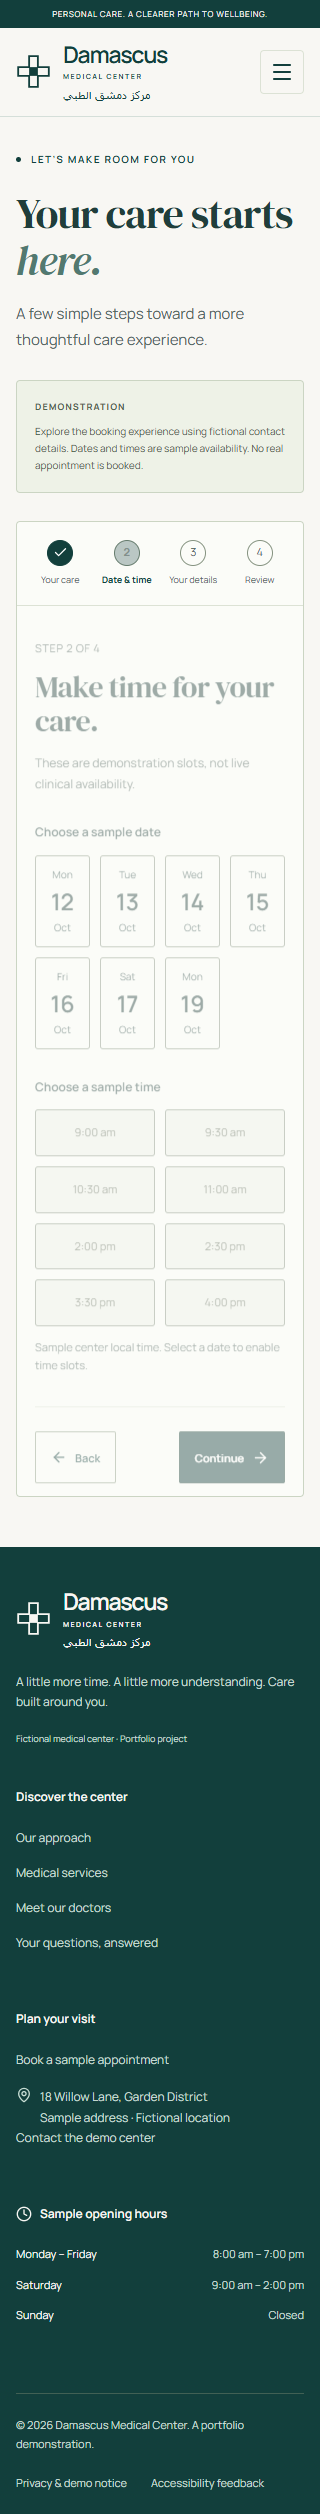
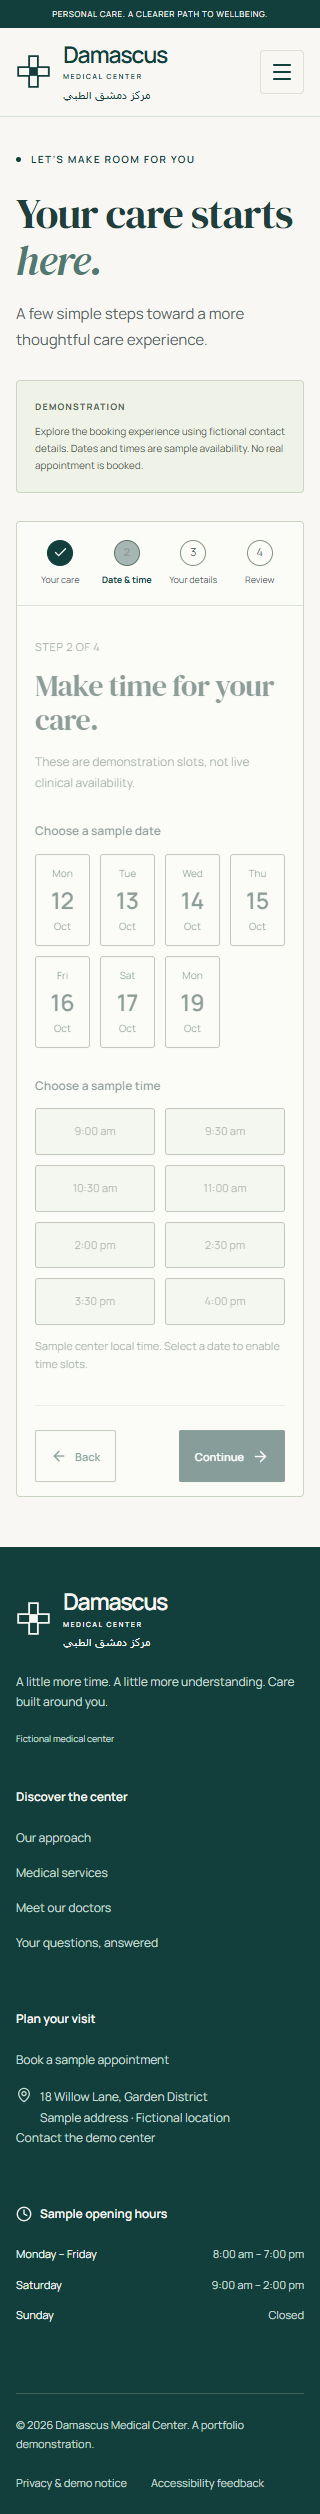
Second commit

diff --git a/src/components/layout.tsx b/src/components/layout.tsx
@@ -111,7 +111,7 @@ export function Layout() {
               <p className="mt-6 max-w-xs text-sage-light leading-relaxed">
                 A little more time. A little more understanding. Care built around you.
               </p>
-              <span className="footer-demo">Fictional medical center · Portfolio project</span>
+              <span className="footer-demo">Fictional medical center </span>
             </div>
             <div>
               <h2>Discover the center</h2>

diff --git a/README.md b/README.md
@@ -1,82 +1,213 @@
-# Damascus Medical Center · مركز دمشق الطبي
+# Damascus Medical Center
 
-A complete fictional healthcare frontend, built with React, TypeScript and Tailwind. A bilingual identity, editorial homepage and coordinated motion support a practical journey from finding a specialty to reviewing a sample appointment.
+A medical center website with searchable care directories and a validated appointment demonstration.
 
-![Damascus Medical Center desktop homepage](docs/screenshots/home-desktop-viewport.png)
+Built with **React, TypeScript and Tailwind CSS**, this project lets visitors explore six specialties, find a clinician and work through a four-step appointment journey. It brings together typed domain data, client-side routing, controlled forms and a shared visual and motion system.
 
-## Run locally
+**[Live website](https://damascus-medical-center.netlify.app/)** · [Source code](https://github.com/SaadSinan-dev/Medical-Center-Website) · [Run locally](#local-development) · [Verification](#testing-and-verification)
 
-Requires Node.js 22.12+ and npm; verified with Node 24.19.0. No API keys or environment variables are required.
+![Desktop homepage with the Damascus bilingual identity, deep teal hero and consultation photograph](docs/screenshots/home-desktop-viewport.png)
 
-```sh
-npm ci
-npm run dev -- --host 127.0.0.1 --port 5173
-```
+> Damascus Medical Center is a fictional portfolio brand. Clinicians, premises and availability are sample content; forms demonstrate client-side interactions without sending appointments or messages.
 
-Open http://127.0.0.1:5173. For a production preview, run `npm run build`, then `npm run preview -- --host 127.0.0.1 --port 4173`.
+## What visitors can do
 
-## Experience
+| Experience              | Implemented behavior                                                                                                                                                     |
+| ----------------------- | ------------------------------------------------------------------------------------------------------------------------------------------------------------------------ |
+| Discover care           | Search service names and descriptions, combine the search with category filters, open detail pages and recover from empty results.                                       |
+| Find a clinician        | Search the three sample profiles by name, filter by specialty and carry a doctor selection into the appointment flow.                                                    |
+| Try an appointment      | Choose care, select a sample date and time, enter fictional contact details and review an editable summary. Each step validates before continuing.                       |
+| Plan a visit            | Explore sample hours and an illustrative site plan, use the locally validated contact form and read the about, FAQ and privacy pages.                                    |
+| Navigate across devices | Use the shared header, mobile menu, keyboard-operable disclosures and responsive layouts. Unknown routes and unknown service/doctor IDs have a dedicated not-found view. |
 
-| Journey              | Implemented behavior                                                                                                                                  |
-| -------------------- | ----------------------------------------------------------------------------------------------------------------------------------------------------- |
-| Home                 | Bilingual geometric wordmark, desktop art direction, photographic hero, six specialties, care philosophy, sample team, native FAQ and booking actions |
-| Services and doctors | Search, category/specialty filters, live counts, empty-state reset, detail routes and direct booking preselection                                     |
-| Appointments         | Four validated steps, sample dates and times, optional clinician, editable review, explicit demo completion and reset                                 |
-| Contact and support  | Illustrative site plan, sample hours, locally validated contact form, about, FAQ, privacy and custom not-found pages                                  |
+## More application screenshots
 
-The site is a portfolio demonstration. The center, location, availability and clinicians are fictional. Generated photography does not depict real staff or patients. No appointment or message is sent. No ratings, accreditations, testimonials or business outcomes are fabricated.
+These are captures of the rendered application. The photographs within the interface are generated assets, with provenance recorded in [ASSETS.md](docs/ASSETS.md).
 
-## Design and motion
+<details>
+<summary>View mobile, service discovery, a clinician profile, booking review and contact</summary>
 
-Deep teal, warm white and pale sage establish the Damascus identity. Manrope carries the hero and interface; DM Serif Display adds editorial emphasis. The homepage uses a 48/52 desktop split, a 1600px maximum content width, an asymmetric specialty index, an architectural approach section, photographic team profiles and a closing appointment panel. Arabic appears in the brand using `lang="ar"` and `dir="rtl"`; the remaining content is English. Full Arabic localization is not implemented.
+### Mobile homepage
 
-CSS coordinates the hero text sequence, photographic mask reveal and restrained image settling. A reusable `Reveal` component enhances selected section groups using IntersectionObserver and the Web Animations API. Content is visible without those APIs. Buttons, navigation, specialty links, portraits, mobile navigation, FAQs, booking stages and form feedback share short motion timings. Reduced-motion preferences disable entrances and image transforms, including when changed during a visit. No animation dependency or continuous scroll handler was added.
+The same content hierarchy adapts to a single-column layout, with the main actions before photography.
+
+<img src="docs/screenshots/home-mobile-viewport.png" alt="Mobile homepage showing the compact bilingual wordmark, navigation toggle and appointment actions" width="300" />
+
+### Service directory
+
+![Service directory with a search field, category filters and links to specialty details and sample booking](docs/screenshots/services-desktop.png)
+
+### Clinician profile
+
+![Fictional clinician profile showing care approach, sample consultation languages and direct doctor booking](docs/screenshots/doctor-profile-desktop.png)
+
+### Appointment review
+
+![Fourth appointment step with editable care, schedule and contact details and an explicit demonstration completion action](docs/screenshots/appointment-review-desktop.png)
+
+### Contact and visit planning
+
+![Contact page with sample opening hours, an illustrative site plan and a labeled local demonstration form](docs/screenshots/contact-desktop.png)
+
+</details>
+
+## Design and UX decisions
+
+**Make the next action easy to find.** The hero offers appointment and clinician routes; the task strip also points to services and visit information. Service and clinician details carry relevant selections into booking, so visitors do not have to choose the same specialty again.
+
+**Give the identity a consistent place.** The geometric medical mark, deep teal, warm ivory and sage recur across navigation, content and forms. The wordmark includes **مركز دمشق الطبي**, with its own language and right-to-left direction. The rest of the website is English; this is bilingual branding rather than full Arabic localization.
+
+**Change the composition to fit the content.** The desktop hero uses a 48/52 text-and-image split within a 1600px content cap. An asymmetric specialty index, architectural care section and portrait-led team section create different reading rhythms. On small screens, text and actions precede images, sections stack and navigation becomes a disclosure menu.
+
+**Use motion to direct attention and explain changes.** Hero copy enters in sequence alongside a photographic mask reveal. Selected section groups animate once on entry. Short transitions provide feedback on buttons, links, mobile navigation, FAQ disclosures and booking steps. There are no looping effects or continuous scroll handlers.
+
+See the [design and motion specification](docs/DESIGN.md) for tokens, compositions and timing details.
+
+## Technology stack
+
+| Area                  | Technologies and role                                                                                                                                                                        |
+| --------------------- | -------------------------------------------------------------------------------------------------------------------------------------------------------------------------------------------- |
+| Interface and routing | React 19, strict TypeScript and React Router 7: component composition, typed contracts and client-side routes.                                                                               |
+| Styling and build     | Tailwind CSS 4, shared CSS recipes and Vite 8: theme tokens, page layouts, development server and production bundles. The Vite configuration also enables React Compiler.                    |
+| Validation            | Zod 4: appointment and contact schemas. Controlled React inputs and component state manage the forms; there is no separate form-state library.                                               |
+| Motion and assets     | CSS animations, IntersectionObserver and the Web Animations API; Lucide icons; locally served Manrope and DM Serif Display fonts; optimized WebP photography. No motion library is required. |
+| Quality tools         | Vitest and React Testing Library for helpers and interactions; Playwright and axe-core for browser checks; Oxlint and Prettier for linting and formatting; Sharp for asset preparation.      |
+
+Exact resolved versions are recorded in [package-lock.json](package-lock.json). Scripts and dependency declarations are in [package.json](package.json).
 
 ## Architecture
 
 ```text
 src/
-  components/                 shared layout, controls, Accordion and Reveal
-  data/brand.ts               English/Arabic identity constants
-  data/content.ts             typed fictional services, clinicians and FAQs
-  features/home/              hero and distinct homepage sections
-  features/appointments/      workflow state and controlled step components
-  hooks/usePageMeta.ts         route titles and descriptions
-  lib/booking.ts              selection, date/time helpers and validation
-  pages/                      routed directories and supporting pages
-  styles/                     identity, homepage compositions and motion system
-  index.css                   Tailwind theme and shared component recipes
-public/images/                optimized local generated photography
-scripts/                      repeatable visual, motion and performance checks
-e2e/                          browser workflow and accessibility tests
-docs/                         design, evidence, screenshots and asset provenance
+  App.tsx                         shared route layout and lazy secondary pages
+  components/                     layout, UI controls, forms, Accordion and Reveal
+  data/
+    brand.ts                      English and Arabic identity constants
+    content.ts                    typed specialties, clinicians, FAQs and hours
+  features/
+    home/                         hero and homepage section compositions
+    appointments/
+      Appointments.tsx            draft state, step guards and completion
+      steps/                      care, schedule, details and review
+  hooks/usePageMeta.ts             route titles and descriptions
+  lib/booking.ts                  selection, scheduling and validation helpers
+  pages/                          directories, detail routes and supporting pages
+  styles/                         identity, homepage and motion rules
+  types/domain.ts                 Service, Doctor and AppointmentDraft interfaces
+  test/                           component workflow tests and setup
+  index.css                       Tailwind theme and shared component recipes
+public/images/                    local generated WebP assets
+e2e/site.spec.ts                   browser workflows and accessibility checks
+scripts/                          screenshot, motion and performance inspection
+docs/                             design notes, reports, licenses and screenshots
 ```
 
-React 19.3, TypeScript 6, Vite 8.3, Tailwind 4.3, React Router 7.18, Lucide React and Zod. Fonts are self-hosted with licenses in `docs/licenses`. Exact versions are in the lockfile. Secondary pages and form schemas load separately. The existing application architecture and working routes were preserved during redesign.
+Pages compose shared controls such as `Brand`, `ActionLink`, `PageIntro`, `Field`, `Consent` and `Accordion`. Content stays separate from rendering: a doctor's `serviceId` links the profile to a specialty, while route parameters resolve against the same data used by the directories.
 
-Contact details remain in component memory; neither localStorage nor sessionStorage is used. Only safe service/doctor IDs appear in URLs. A refresh clears the draft. Contact details clear after successful local validation. Privacy links open a new tab to preserve an in-progress draft.
+Booking-specific state belongs to its feature rather than a global store. Its step components receive a controlled draft; the parent owns validation and transitions. Pure helpers handle selection normalization and sample date/time rules, which can be tested without rendering the UI.
 
-## Verification
+The shared `Reveal` component checks browser capabilities, observes entry, disconnects after the first reveal and cancels its animation during cleanup. If enhancement APIs are unavailable, content stays visible. It also responds when a visitor changes their reduced-motion preference.
+
+## Appointment workflow and data handling
+
+1. **Care:** select a specialty and an optional matching clinician. A doctor link preselects the corresponding specialty; unknown IDs are ignored. Changing care selections clears dependent schedule choices.
+2. **Schedule:** choose from seven generated sample dates after the current date. Sundays are excluded, and Saturday time choices stop before the sample 14:00 closing time. These are local examples, not an availability lookup.
+3. **Details:** enter a name, email and phone number, then acknowledge the demonstration. Zod validation supplies inline errors and focuses the first invalid field.
+4. **Review:** edit earlier choices without losing contact details, then complete the demonstration. The final view explicitly states that no appointment was booked and provides a reset action.
+
+Only service and doctor IDs travel in the URL. Form details remain in component memory: they are not sent to a server or written to localStorage or sessionStorage. Refreshing or leaving the appointment page clears its draft. The contact form also validates locally and clears entered values on successful validation. Use fictional details when trying either form.
+
+A real booking service would replace local scheduling and completion with authoritative availability and submission endpoints. It would also need server-side validation and defined consent, retention and error handling; those services are outside this frontend.
+
+## Responsive design and accessibility
+
+Layouts use grids, responsive typography and explicit breakpoint rules. Desktop directories and feature sections condense or stack as space narrows; the main navigation switches to a mobile disclosure below 1024px. The browser suite checks principal pages for horizontal overflow at **320, 375, 390, 430, 768, 1024, 1280, 1440 and 1920px**.
+
+Implemented keyboard and accessibility behavior includes semantic landmarks, a skip link, visible focus styles, labeled native controls, grouped radio inputs, error associations and live result counts. Route changes focus the main content; booking transitions focus the stage heading. The mobile menu closes on selection or Escape, with focus returned to its toggle on Escape. FAQs use native `details` and `summary` elements.
+
+Reduced-motion settings disable entrance effects and image transforms. Browser tests also check readable content and working links when IntersectionObserver is unavailable. Axe scans evaluate settled states with reduced motion enabled; separate checks exercise motion behavior. These checks provide evidence about the tested states, not a WCAG certification. Screen-reader user sessions, physical devices and Safari/Firefox testing remain outstanding.
+
+## Local development
+
+Use **Node.js 22.12 or newer** and npm. Verification used Node 24.19.0 and npm 11.17.0. No environment variables, API keys or backend are needed.
 
 ```sh
-npm run typecheck
-npm run lint
-npm test
-npm run test:e2e
-npm run build
-npm run format:check
+git clone https://github.com/SaadSinan-dev/Medical-Center-Website.git
+cd Medical-Center-Website
+npm ci
+npm run dev -- --host 127.0.0.1 --port 5173
 ```
 
-Verified: 15 unit/component tests and 18 browser tests pass. Principal layouts fit at 320, 375, 390, 430, 768, 1024, 1280, 1440 and 1920px. Axe reports zero violations across the checked pages/states. Screenshot review covers 1440×900, 1920×1080, mobile, full homepage, internal pages, menus, FAQ, booking review and motion frames. See [QA evidence](docs/QA.md).
+Open `http://127.0.0.1:5173` for local development. If the repository is already downloaded, start with `npm ci` in its root.
 
-Browser scripts default to installed Microsoft Edge. To use Chromium: `npx playwright install chromium`, set `PLAYWRIGHT_CHANNEL=chromium`, then run the checks. With the dev server running, use `node scripts/visual-qa.mjs` and `node scripts/motion-qa.mjs`. Production measurements use port 4173 and `node scripts/performance.mjs`.
+| Command                                                             | Purpose                                                                             |
+| ------------------------------------------------------------------- | ----------------------------------------------------------------------------------- |
+| `npm run lint` / `npm run typecheck`                                | Run Oxlint and TypeScript checks.                                                   |
+| `npm test` / `npm run test:watch`                                   | Run the unit/component suite once or in watch mode.                                 |
+| `npm run test:e2e`                                                  | Run browser workflows and axe checks; Playwright starts or reuses the local server. |
+| `npm run build` / `npm run preview -- --host 127.0.0.1 --port 4173` | Type-check and build `dist`, then serve it locally for production inspection.       |
+| `npm run format:check` / `npm run format`                           | Check formatting or apply Prettier formatting.                                      |
 
-## Delivery and limits
+Browser checks default to an installed Microsoft Edge. To use Playwright's Chromium instead, install that browser and set the channel before running the suite:
 
-The production main JavaScript is approximately 94.7 kB gzipped; CSS is approximately 11.6 kB gzipped. No motion library was added. Fresh local production measurements are saved in `docs/performance-results.json`; these unthrottled lab observations are not field performance or a Lighthouse score.
+```sh
+npx playwright install chromium
+```
 
-Deploy `dist` to a static host after verification. Netlify and Vercel route fallbacks are supplied. Test direct route refreshes after deployment. Keep demo notices and noindex metadata; configure an absolute Open Graph image URL for the chosen domain. No public deployment was performed.
+PowerShell:
 
-A real medical service would require verified organization content, a secure backend, accurate availability, server-side validation and an appropriate consent/retention model. Physical-device, Safari/Firefox and assisted-technology user testing remain outside the performed checks. No legal or healthcare compliance certification is claimed.
+```powershell
+$env:PLAYWRIGHT_CHANNEL = 'chromium'
+npm run test:e2e
+```
 
-See [design and motion](docs/DESIGN.md), [case study](docs/PORTFOLIO_CASE_STUDY.md), [engineering report](docs/ENGINEERING_REPORT.md), and [asset provenance](docs/ASSETS.md).
+macOS/Linux shells:
+
+```sh
+PLAYWRIGHT_CHANNEL=chromium npm run test:e2e
+```
+
+## Testing and verification
+
+Verification on **10 October 2026** used the commands above against the actual application.
+
+| Check                                   | Executed result                                                                                                   |
+| --------------------------------------- | ----------------------------------------------------------------------------------------------------------------- |
+| TypeScript, Oxlint and production build | Passed. The build performs TypeScript checking before bundling.                                                   |
+| Vitest / React Testing Library          | 15 tests passed across two files.                                                                                 |
+| Playwright                              | 18 browser tests passed, including nine responsive-width cases.                                                   |
+| axe-core                                | Zero reported violations across the checked page/state inventory, using WCAG 2 A/AA, 2.1 AA and 2.2 AA rule tags. |
+| Documentation                           | Markdown formatting, local links, image references and documented scripts checked against the repository.         |
+
+Unit/component tests cover data relationships, scheduling, schemas, filtering, empty results, route behavior and editable forms. Browser tests cover navigation, direct selection links, invalid choices, booking guards, first-error focus, Enter submission, reset, contact feedback, menu behavior, reduced motion and storage checks.
+
+The public demo was separately checked through direct visits to the homepage, service directory, a clinician profile and a doctor-preselected appointment route. Those visits returned HTTP 200 and rendered the expected headings without page errors; this was a deployment smoke check, not the full local test suite run against production.
+
+Detailed evidence is available in [QA.md](docs/QA.md), [browser results](docs/qa-results.json) and [accessibility results](docs/accessibility-results.json). Existing visual inspection includes desktop at 1440×900 and 1920×1080, mobile, internal pages and intermediate motion frames.
+
+To reproduce visual captures with the local server running on port 5173:
+
+```sh
+node scripts/visual-qa.mjs
+node scripts/motion-qa.mjs
+```
+
+## Performance, metadata and deployment
+
+Secondary routes use `React.lazy`; validation code loads with form-related routes. The hero has responsive image sources and high fetch priority. Below-fold photographs use lazy loading and explicit dimensions. Fonts and images are served locally. The audit's production build emitted approximately **94.72 kB of gzipped initial JavaScript** and **11.54 kB of gzipped CSS**; other routes add their own chunks.
+
+The existing [local performance report](docs/performance-results.json) records three fresh Edge contexts without network or CPU throttling: LCP of 148–200ms, CLS around 0.000073, and no third-party resource requests during the observation window. Those numbers describe a local preview, not the deployed site's field performance or a Lighthouse score. Reproduce observations with the production preview on port 4173 using `node scripts/performance.mjs`.
+
+Routes update document titles, descriptions and Open Graph text through `usePageMeta`. The HTML supplies a favicon, theme color and social image. The fictional demo deliberately uses `noindex, nofollow` and a crawler-disallowing `robots.txt`; it has no sitemap or medical-business structured data. The social image path is relative and should be made absolute if preparing domain-specific sharing metadata.
+
+The [Netlify demo](https://damascus-medical-center.netlify.app/) is publicly available. For another static host, publish `dist` and preserve client-side routing: the repository includes Netlify's `public/_redirects` and a Vercel rewrite configuration. Direct-route refreshes should be checked after deployment.
+
+## Scope and next improvements
+
+The implemented frontend covers discovery, profiles, visit information and local form workflows. Its main extension points are a real booking/contact API with verified organization content, complete Arabic localization, and further assisted-technology and cross-browser evaluation. There is no authentication, content-management service or real-time clinical calendar.
+
+Design rationale is in [DESIGN.md](docs/DESIGN.md), the engineering narrative in [PORTFOLIO_CASE_STUDY.md](docs/PORTFOLIO_CASE_STUDY.md), and generated imagery and font-license details in [ASSETS.md](docs/ASSETS.md).
+
+## Contact
+
+[Portfolio](https://saad-dev-portfolio.netlify.app) · [GitHub](https://github.com/SaadSinan-dev) · [LinkedIn](https://www.linkedin.com/in/saad-sinan-a34557374/) · [WhatsApp](https://wa.me/963980562304)

diff --git a/docs/QA.md b/docs/QA.md
@@ -36,4 +36,8 @@ Run the commands in README.md. `qa-results.json` contains browser outcomes; `acc
 
 ## Limits
 
-These checks are evidence, not blanket WCAG certification. Physical devices, Safari/Firefox, screen-reader user sessions, all text-spacing/zoom combinations and real medical/backend services were not tested. No deployment or real booking is claimed. Local unthrottled timing observations are not field Core Web Vitals or Lighthouse scores.
+During the README audit on 10 October 2026, linting, type checks, 15 unit/component tests and the production build passed again. The first browser run hit the configured 45-second context-teardown timeout during the accessibility check; a separate rerun with no concurrent checks passed all 18 tests without application or test-code changes. The JSON report contains that successful rerun. Browser execution refreshed the booking review, confirmation and mobile screenshots.
+
+The public Netlify demo was separately checked at the homepage, services, a clinician profile and the doctor-preselected appointment route. Each direct visit returned HTTP 200 and rendered the expected heading with no page errors. That smoke check does not imply that the full local browser suite ran against the deployment.
+
+These checks are evidence, not blanket WCAG certification. Physical devices, Safari/Firefox, screen-reader user sessions, all text-spacing/zoom combinations and real medical/backend services were not tested. No real booking is claimed. Local unthrottled timing observations are not field Core Web Vitals or Lighthouse scores.

diff --git a/docs/ENGINEERING_REPORT.md b/docs/ENGINEERING_REPORT.md
@@ -26,4 +26,4 @@ The redesign used source inspection, local UI/motion guidance, native React/CSS 
 
 Run instructions and deployment fallbacks are in README.md. Design and motion rationale are in DESIGN.md. QA.md and the JSON reports document evidence; screenshots contain the current application. ASSETS.md retains image provenance and original prompts.
 
-The center and clinicians remain fictional. Arabic branding is implemented; full Arabic translation is not. There is no real backend, availability service, email delivery or public deployment. Assisted-technology user testing and physical-device/Safari/Firefox validation remain outside this delivery.
+The center and clinicians remain fictional. Arabic branding is implemented; full Arabic translation is not. There is no real backend, availability service or email delivery. A public Netlify frontend demo is now available and was checked during the README audit; current repository and demo links are in README.md. Assisted-technology user testing and physical-device/Safari/Firefox validation remain outside this delivery.

diff --git a/docs/IMPLEMENTATION_PLAN.md b/docs/IMPLEMENTATION_PLAN.md
@@ -6,4 +6,4 @@
 4. [x] Inspect screenshots and motion frames; fix text contrast and mobile heading spacing; verify workflows, nine viewport widths and accessibility.
 5. [x] Build production output, refresh screenshots and measurements, document implementation and open the local preview.
 
-The user's redesign brief expressly authorizes normal design and implementation decisions without approval pauses. Work is performed in the existing workspace. There is no Git repository; no commits or publishing are claimed. The frontend remains a fictional, memory-only demonstration.
+The user's redesign brief expressly authorizes normal design and implementation decisions without approval pauses. Work was performed in the existing workspace; the redesign itself did not create commits or publish the site. The project now has a GitHub repository and a verified public Netlify demo, linked in README.md. The frontend remains a fictional, memory-only demonstration.

diff --git a/docs/PORTFOLIO_CASE_STUDY.md b/docs/PORTFOLIO_CASE_STUDY.md
@@ -28,4 +28,4 @@ Actual screenshots cover full homepage, desktop/mobile viewports, clinician prof
 
 ## Scope
 
-The completed deliverable is a local frontend portfolio demonstration. Real appointment integration, verified clinical content, complete Arabic localization, assisted-technology user testing, physical-device/cross-browser review and deployment are future work. No commercial results or compliance certification are claimed.
+The completed deliverable is a frontend portfolio demonstration with a public Netlify demo linked in README.md. Real appointment integration, verified clinical content, complete Arabic localization, assisted-technology user testing and physical-device/cross-browser review remain future work. No commercial results or compliance certification are claimed.
